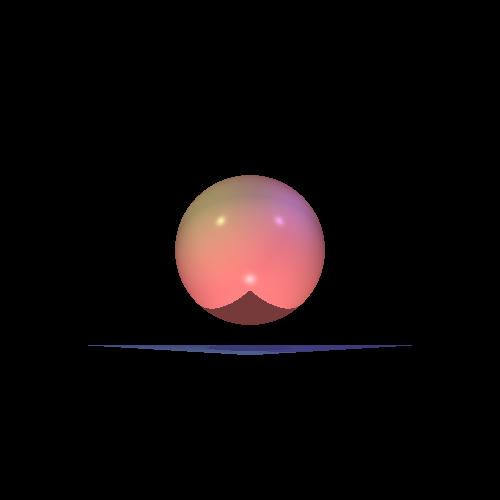
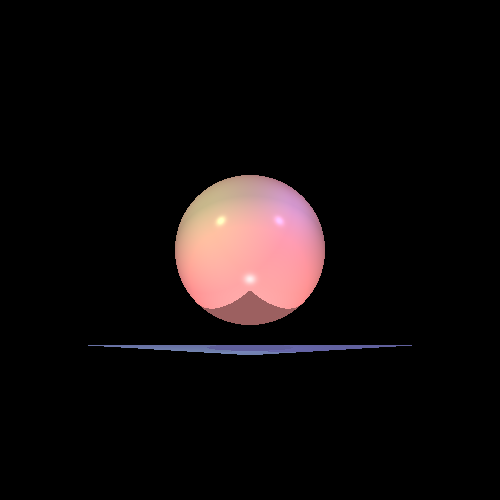
finish 7.2

Changed region(s): [[0.33, 0.33, 0.66, 0.66], [0.21, 0.69, 0.78, 0.72]]

diff --git a/src/renderer/SimpleRayTracer.java b/src/renderer/SimpleRayTracer.java
@@ -11,6 +11,10 @@ import java.util.List;
 
 import static primitives.Util.alignZero;
 
+
+
+
+
 /**
  * A basic ray tracer that computes the color of the closest intersection point of a ray with scene geometries.
  */
@@ -68,13 +72,6 @@ public class SimpleRayTracer extends RayTracerBase {
      */
     private Color calcColor(Intersection intersection, Ray ray) {
 
-//        if (!preprocessIntersection(intersection, ray.getDirection()))
-//            return Color.BLACK; // No local effects → return black
-//
-//        Color color = scene.ambientLight.getIntensity()
-//                .scale(intersection.material.Ka)
-//                .add(calcColorLocalEffects(intersection));
-//        return color;
         return preprocessIntersection(intersection, ray.getDirection())
                 ? calcColor(intersection, MAX_CALC_COLOR_LEVEL, INITIAL_K)
                 .add(scene.ambientLight.getIntensity().scale(intersection.geometry.getMaterial().Ka))
@@ -116,10 +113,12 @@ public class SimpleRayTracer extends RayTracerBase {
 
         for (LightSource lightSource : scene.light) {
             {
-                if (!setLightSource(intersection, lightSource)||!unshaded(intersection, lightSource)) {
-                    continue;
+//                if (!setLightSource(intersection, lightSource)||!unshaded(intersection, lightSource)) {
+//                    continue;
+//                }
+                if (!setLightSource(intersection, lightSource)||!unshaded(intersection,lightSource)) {
+                   continue;
                 }
-
 
                 Color iL = lightSource.getIntensity(intersection.point);
                 color = color.add(iL.scale(calcDiffusive(intersection))).add(iL.scale(calcSpecular(intersection)));
@@ -160,31 +159,88 @@ public class SimpleRayTracer extends RayTracerBase {
 
 
     private boolean unshaded(Intersection intersection, LightSource lightSource) {
-
         Vector pointToLight = lightSource.getL(intersection.point).scale(-1);
         Vector delta = intersection.normal.scale(intersection.scaleNL < 0 ? DELTA : -DELTA);
-        Ray shadowRay = new Ray(intersection.point.add(delta), pointToLight);
-        // Check if the shadow ray intersects with any geometry in the scene
+        Point origin = intersection.point.add(delta);
+        Ray shadowRay = new Ray(origin, pointToLight);
+
+        double maxDistance = lightSource.getDistance(intersection.point);
+
         List<Intersection> intersections = scene.geometries.calculateIntersectionsHelper(shadowRay);
-        if (intersections == null||intersections.isEmpty()) {
-            return true; // No intersections, shaded
+        if (intersections == null || intersections.isEmpty()) {
+            return true; // אין חסימה
         }
-        double minDistance = lightSource.getDistance(intersection.point);
-        for (Intersection shadowIntersection: intersections) {
 
+        for (Intersection shadowIntersection : intersections) {
             if (shadowIntersection.geometry == intersection.geometry) {
-                continue; // Ignore the intersection with the same geometry
+                continue; // מדלגים על הגוף עצמו
             }
-            double dis = lightSource.getDistance(shadowIntersection.point);//.distance(intersection.point);
-            double distance = shadowIntersection.point.distance(intersection.point);
-            if (dis > minDistance) {
-                return true; // Shaded by another geometry
+
+            double distanceFromRayOrigin = shadowIntersection.point.distance(origin);
+            if (distanceFromRayOrigin < maxDistance) {
+                // בודקים אם יש שקיפות חלקית – אם לא שקוף → חסימה
+                if (shadowIntersection.geometry.getMaterial().KT.lowerThan(MIN_CALC_COLOR_K)) {
+                    return false; // חסום
+                }
             }
         }
-        return false; // Not shaded
+
+        return true; // אין חסימה משמעותית – לא בצל
     }
 
-    private Color calcColor (Intersection intersection, int level, Double3 k) {
+
+
+   private Color calcColor (Intersection intersection, int level, Double3 k) {
+
+             Color color = scene.ambientLight.getIntensity()
+                .scale(intersection.material.Ka)
+                .add(calcColorLocalEffects(intersection));
+        if (level == 1 || k.lowerThan(MIN_CALC_COLOR_K)) {
+            return color;
+        }
+      return color.add(calcGlobalEffects(intersection, level-1, k));
+
 
     }
+
+    private Color calcGlobalEffect(Ray ray, int level, Double3 k, Double3 kx) {Double3 kkx = k.product(kx);
+        if (kkx.lowerThan(MIN_CALC_COLOR_K)) return Color.BLACK;
+        Intersection intersection = findClosestIntersection(ray);
+        if (intersection == null) return scene.backgroundColor.scale(kx);
+        return preprocessIntersection(intersection, ray.getDirection())
+                ? calcColor(intersection, level-1, kkx).scale(kx) : Color.BLACK;
+    }
+    private Color calcGlobalEffects(Intersection intersection, int level, Double3 k)
+    {
+        return calcGlobalEffect(constructRefractedRay(intersection),
+            level, k, intersection.material.KT)
+            .add(calcGlobalEffect(constructReflectedRay(intersection),
+                    level, k, intersection.material.KR));
+    }
+    private Ray constructReflectedRay(Intersection intersection) {
+        Vector v = intersection.rayDir;
+        Vector n = intersection.normal;
+        Vector r = v.subtract(n.scale(2 * intersection.scaleNR));
+        Vector delta = n.scale(intersection.scaleNR > 0 ? -DELTA : DELTA);
+        return new Ray(intersection.point.add(delta), r);
+    }
+
+    private Ray constructRefractedRay(Intersection intersection) {
+        Vector v = intersection.rayDir;
+        Vector n = intersection.normal;
+        Vector delta = n.scale(intersection.scaleNR > 0 ? DELTA : -DELTA);
+        return new Ray(intersection.point.add(delta), v);
+    }
+
+    /**
+     * Finds the closest intersection between a ray and the scene geometries.
+     *
+     * @param ray the ray to find intersections with
+     * @return the closest intersection or null if none found
+     */
+    private Intersection findClosestIntersection(Ray ray) {
+        var intersections = scene.geometries.calculateIntersections(ray);
+        return intersections == null ? null : ray.findClosestIntersection(intersections);
+    }
+
 }

diff --git a/unittest/renderer/ReflectionRefractionTests.java b/unittest/renderer/ReflectionRefractionTests.java
@@ -1,0 +1,110 @@
+package renderer;
+
+import static java.awt.Color.*;
+
+import org.junit.jupiter.api.Test;
+
+import geometries.*;
+import lighting.*;
+import primitives.*;
+import scene.Scene;
+
+/**
+ * Tests for reflection and transparency functionality, test for partial
+ * shadows
+ * (with transparency)
+ * @author Dan Zilberstein
+ */
+class ReflectionRefractionTests {
+   /** Default constructor to satisfy JavaDoc generator */
+   ReflectionRefractionTests() { /* to satisfy JavaDoc generator */ }
+
+   /** Scene for the tests */
+   private final Scene          scene         = new Scene("Test scene");
+   /** Camera builder for the tests with triangles */
+   private final Camera.Builder cameraBuilder = Camera.getBuilder()     //
+      .setRayTracer(scene, RayTracerType.SIMPLE);
+
+   /** Produce a picture of a sphere lighted by a spot light */
+   @Test
+   void twoSpheres() {
+      scene.geometries.add( //
+                           new Sphere(50d, new Point(0, 0, -50)).setEmission(new Color(BLUE)) //
+                              .setMaterial(new Material().setKD(0.4).setKS(0.3).setShininess(100).setKT(0.3)), //
+                           new Sphere(25d, new Point(0, 0, -50)).setEmission(new Color(RED)) //
+                              .setMaterial(new Material().setKD(0.5).setKS(0.5).setShininess(100))); //
+      scene.light.add( //
+                       new SpotLight(new Color(1000, 600, 0), new Point(-100, -100, 500), new Vector(-1, -1, -2)) //
+                          .setKl(0.0004).setKq(0.0000006));
+
+      cameraBuilder
+         .setLocation(new Point(0, 0, 1000)) //
+         .setDirection(Point.ZERO, Vector.AXIS_Y) //
+         .setVpDistance(1000).setVpSize(150, 150) //
+         .setResolution(500, 500) //
+         .build() //
+         .renderImage() //
+         .writeToImage("refractionTwoSpheres");
+   }
+
+   /** Produce a picture of a sphere lighted by a spot light */
+   @Test
+   void twoSpheresOnMirrors() {
+      scene.geometries.add( //
+                           new Sphere(400d, new Point(-950, -900, -1000)).setEmission(new Color(0, 50, 100)) //
+                              .setMaterial(new Material().setKD(0.25).setKS(0.25).setShininess(20) //
+                                 .setKT(new Double3(0.5, 0, 0))), //
+                           new Sphere(200d, new Point(-950, -900, -1000)).setEmission(new Color(100, 50, 20)) //
+                              .setMaterial(new Material().setKD(0.25).setKS(0.25).setShininess(20)), //
+                           new Triangle(new Point(1500, -1500, -1500), new Point(-1500, 1500, -1500), //
+                                        new Point(670, 670, 3000)) //
+                              .setEmission(new Color(20, 20, 20)) //
+                              .setMaterial(new Material().setKR(1)), //
+                           new Triangle(new Point(1500, -1500, -1500), new Point(-1500, 1500, -1500), //
+                                        new Point(-1500, -1500, -2000)) //
+                              .setEmission(new Color(20, 20, 20)) //
+                              .setMaterial(new Material().setKR(new Double3(0.5, 0, 0.4))));
+      scene.setAmbientLight(new AmbientLight(new Color(26, 26, 26)));
+      scene.light.add(new SpotLight(new Color(1020, 400, 400), new Point(-750, -750, -150), new Vector(-1, -1, -4)) //
+         .setKl(0.00001).setKq(0.000005));
+
+      cameraBuilder
+         .setLocation(new Point(0, 0, 10000)) //
+         .setDirection(Point.ZERO, Vector.AXIS_Y) //
+         .setVpDistance(10000).setVpSize(2500, 2500) //
+         .setResolution(500, 500) //
+         .build() //
+         .renderImage() //
+         .writeToImage("reflectionTwoSpheresMirrored");
+   }
+
+   /**
+    * Produce a picture of a two triangles lighted by a spot light with a
+    * partially
+    * transparent Sphere producing partial shadow
+    */
+   @Test
+   void trianglesTransparentSphere() {
+      scene.geometries.add(
+                           new Triangle(new Point(-150, -150, -115), new Point(150, -150, -135),
+                                        new Point(75, 75, -150))
+                              .setMaterial(new Material().setKD(0.5).setKS(0.5).setShininess(60)),
+                           new Triangle(new Point(-150, -150, -115), new Point(-70, 70, -140), new Point(75, 75, -150))
+                              .setMaterial(new Material().setKD(0.5).setKS(0.5).setShininess(60)),
+                           new Sphere(30d, new Point(60, 50, -50)).setEmission(new Color(BLUE))
+                              .setMaterial(new Material().setKD(0.2).setKS(0.2).setShininess(30).setKT(0.6)));
+      scene.setAmbientLight(new AmbientLight(new Color(38, 38, 38)));
+      scene.light.add(
+                       new SpotLight(new Color(700, 400, 400), new Point(60, 50, 0), new Vector(0, 0, -1))
+                          .setKl(4E-5).setKq(2E-7));
+
+      cameraBuilder
+         .setLocation(new Point(0, 0, 1000)) //
+         .setDirection(Point.ZERO, Vector.AXIS_Y) //
+         .setVpDistance(1000).setVpSize(200, 200) //
+         .setResolution(600, 600) //
+         .build() //
+         .renderImage() //
+         .writeToImage("refractionShadow");
+   }
+}
